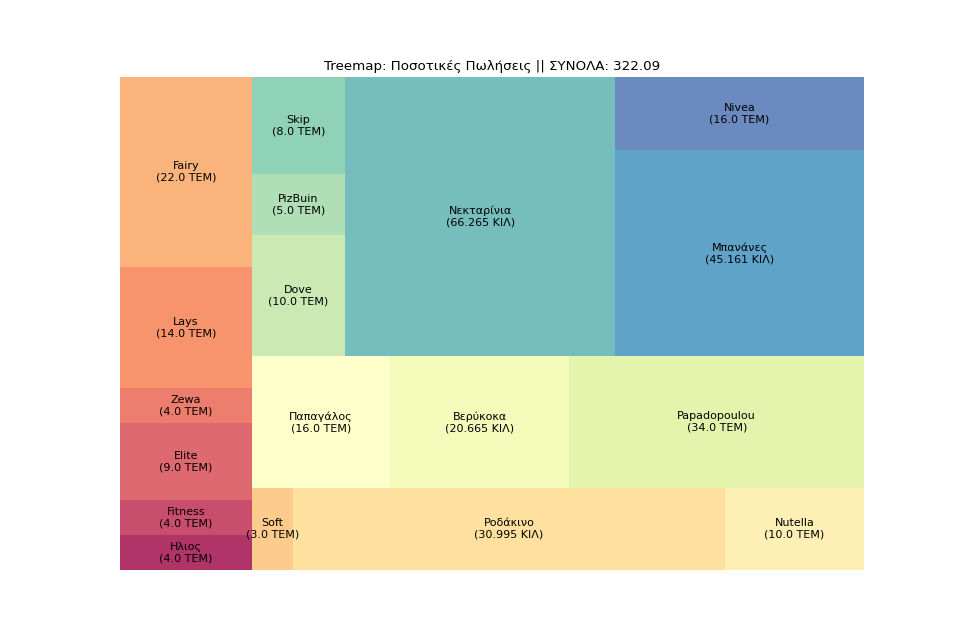
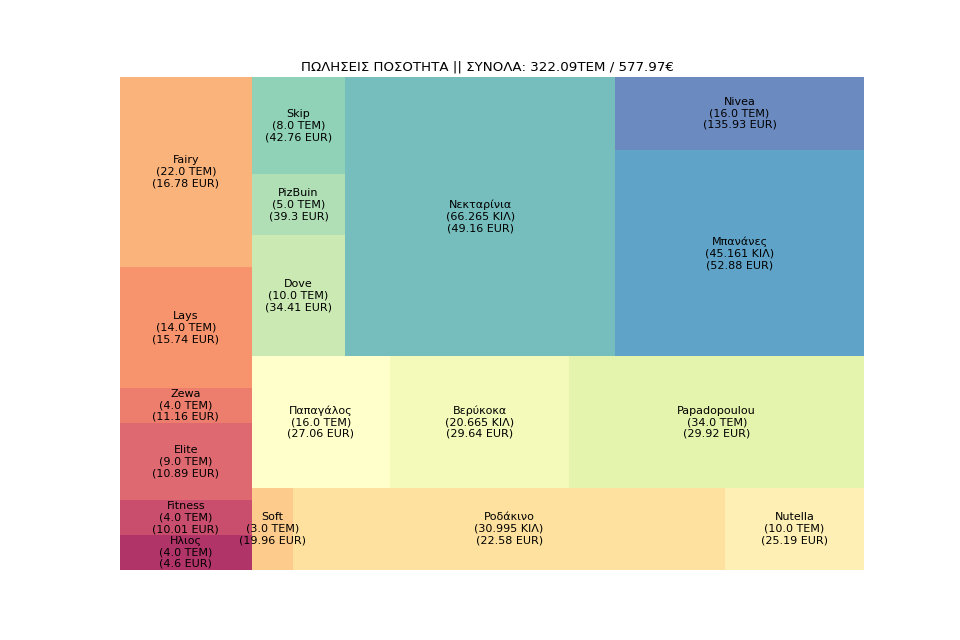
``@Ioannis E. Kommas (PyCharm Commit and Push Code Lines)``

diff --git a/A_DAILY_ΠΟΡΕΙΑ_ΤΙΜΟΚΑΤΑΛΟΓΟΥ_ΠΩΛΗΣΕΩΝ/pricelist_main_app.py b/A_DAILY_ΠΟΡΕΙΑ_ΤΙΜΟΚΑΤΑΛΟΓΟΥ_ΠΩΛΗΣΕΩΝ/pricelist_main_app.py
@@ -84,30 +84,34 @@ while True:
 
         # -------------------- PLOT --------------------
         plt.figure(figsize=(15, 10))
-        plt.subplot(2, 1, 1,
-                    title=f'ΕΝΕΡΓΕΙΑ: {id}η || {choose_pricelist.comments} || [ΕΝΑΡΞΗ: {from_date.strftime("%d-%m")} - ΛΗΞΗ: {to_date.strftime("%d-%m")}]')
-        plt.bar(brand_sales.BRAND, brand_sales.Turnover, alpha=0.5, color='red', label='ΤΖΙΡΟΣ')
-        plt.plot(brand_sales.BRAND, brand_sales.SalesQuantity, alpha=0.5, color='blue', label='ΠΟΣΟΤΗΤΑ', marker='o',
-                 linestyle="None")
-        for x, y in zip(brand_sales.BRAND, brand_sales.SalesQuantity):
-            if y - int(y) == 0:
-                quant_type = 'TEM'
-            else:
-                quant_type = 'ΚΙΛ'
-            label = "{:.2f} {}".format(y, quant_type)
+        # plt.subplot(2, 1, 1,
+        #             title=f'ΕΝΕΡΓΕΙΑ: {id}η || {choose_pricelist.comments} || [ΕΝΑΡΞΗ: {from_date.strftime("%d-%m")} - ΛΗΞΗ: {to_date.strftime("%d-%m")}]')
+        # plt.bar(brand_sales.BRAND, brand_sales.Turnover, alpha=0.5, color='red', label='ΤΖΙΡΟΣ')
+        # plt.plot(brand_sales.BRAND, brand_sales.SalesQuantity, alpha=0.5, color='blue', label='ΠΟΣΟΤΗΤΑ', marker='o',
+        #          linestyle="None")
+        # for x, y in zip(brand_sales.BRAND, brand_sales.SalesQuantity):
+        #     if y - int(y) == 0:
+        #         quant_type = 'TEM'
+        #     else:
+        #         quant_type = 'ΚΙΛ'
+        #     label = "{:.2f} {}".format(y, quant_type)
+        #
+        #     # this method is called for each point
+        #     plt.annotate(label,  # this is the text
+        #                  (x, y),  # this is the point to label
+        #                  textcoords="offset points",  # how to position the text
+        #                  xytext=(0, 2),  # distance from text to points (x,y)
+        #                  ha='center')  # horizontal alignment can be left, right or center
+        # plt.xticks(rotation=20)
+        # plt.grid(True, alpha=0.8)
+        # plt.legend()
 
-            # this method is called for each point
-            plt.annotate(label,  # this is the text
-                         (x, y),  # this is the point to label
-                         textcoords="offset points",  # how to position the text
-                         xytext=(0, 2),  # distance from text to points (x,y)
-                         ha='center')  # horizontal alignment can be left, right or center
-        plt.xticks(rotation=20)
-        plt.grid(True, alpha=0.8)
-        plt.legend()
+        plt.subplot(xlabel=f'ΗΜΕΡΟΜΗΝΙΕΣ (EΝΗΜΕΡΩΘΗΚΕ:{dt.now().strftime("%d/%m %H:%M:%S")})',
+                    title=f"""
+ΕΝΕΡΓΕΙΑ: {id}η || {choose_pricelist.comments} || [ΕΝΑΡΞΗ: {from_date.strftime("%d-%m")} - ΛΗΞΗ: {to_date.strftime("%d-%m")}]
 
-        plt.subplot(2, 1, 2, xlabel=f'ΗΜΕΡΟΜΗΝΙΕΣ (EΝΗΜΕΡΩΘΗΚΕ:{dt.now().strftime("%d/%m %H:%M:%S")})',
-                    title=f'ΠΩΛΗΣΕΙΣ ΑΝΑ ΗΜΕΡΑ || ΣΥΝΟΛΑ: {round(final_result.SalesQuantity.sum(), 2)}TEM / {round(final_result.Turnover.sum(), 2)}€  ')
+ΠΩΛΗΣΕΙΣ ΑΝΑ ΗΜΕΡΑ || ΣΥΝΟΛΑ: {round(final_result.SalesQuantity.sum(), 2)}TEM / {round(final_result.Turnover.sum(), 2)}€  
+""")
         plt.bar(dates_ranges.strftime('%a \n%d/%m'), tziros_per_day, alpha=0.5, color='blue', label='ΤΖΙΡΟΣ')
         plt.plot(dates_ranges.strftime('%a \n%d/%m'), quantity_per_day, alpha=0.5, color='red', label='ΠΟΣΟΤΗΤΑ',
                  marker='x',
@@ -137,7 +141,7 @@ while True:
         # Prepare Data
         df = brand_sales
 
-        labels = df.apply(lambda x: f'{x[0]}\n({x[1]} {"TEM" if x[1] - int(x[1]) == 0 else "ΚΙΛ"})', axis=1)
+        labels = df.apply(lambda x: f'{x[0]}\n({x[1]} {"TEM" if x[1] - int(x[1]) == 0 else "ΚΙΛ"})\n({round(x[2], 2)} EUR)', axis=1)
         sizes = df['SalesQuantity'].values.tolist()
         colors = [plt.cm.Spectral(i / float(len(labels))) for i in range(len(labels))]
 
@@ -146,7 +150,7 @@ while True:
         squarify.plot(sizes=sizes, label=labels, color=colors, alpha=.8)
 
         # Decorate
-        plt.title(f'Treemap: Ποσοτικές Πωλήσεις || ΣΥΝΟΛΑ: {round(df.SalesQuantity.sum(), 2)}')
+        plt.title(f"ΠΩΛΗΣΕΙΣ ΠΟΣΟΤΗΤΑ || ΣΥΝΟΛΑ: {round(final_result.SalesQuantity.sum(), 2)}TEM / {round(final_result.Turnover.sum(), 2)}€  ")
         plt.axis('off')
         plt.savefig('tree_map_quantity.png')
         plt.show()
